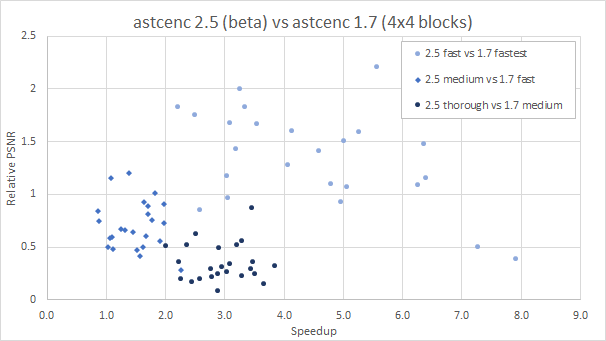
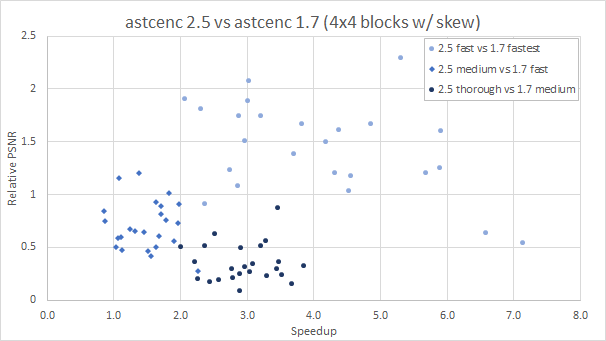
Update comparison block for astcenc 2.5 final build

diff --git a/_posts/2021-03-06-astc-compared-redux.md b/_posts/2021-03-06-astc-compared-redux.md
@@ -9,6 +9,11 @@ bug fixes. Now that the release is stable and in beta, this felt like a good
 time to pull together some benchmark data and look at the progress thus far.
 
 
+**UPDATED:** This blog was refreshed with the final status of the 2.5 release,
+which measurably improved the image quality of the `-fast` and `-fastest` modes
+for a ~15% performance hit.
+
+
 In the beginning ...
 ====================
 
@@ -112,11 +117,15 @@ improvement vs processing cost.
 
 ![asctenc 2.5 vs 1.7 4x4 blocks]({{ "../../../assets/images/astcispc2/02-2.5-vs-1.7-rel-4x4.png" | relative_url }}){:.center-image}
 
-The typical speedup we see on these images is between 9 and 12 x, and an
+The typical speedup we see on these images is between 8.5x and 11.5x, and an
 average image quality loss is just 0.05dB for `-thorough` and 0.1dB for
-`-medium`. The `-fast` and `-fastest` modes deliberately sacrificed a little
-more image quality to gain more performance, so the average PSNR loss there is
-a little higher around 0.175 dB.
+`-medium` and `-fast`. The `-fastest` mode sees considerable improvement in
+quality compared to 1.7 because we'd made it so much faster in the 2.5 beta
+that I actually decided to "spend" a bit of that performance to get above an
+obvious knee in the cost-quality curve. A little more compression effort gave
+up to 2 dB improvements in some images compared to 2.5 beta, which seemed well
+worth a small increase in compression cost (and despite that 2.5 is still a lot
+faster than 2.4).
 
 The speed ups here are so significant that many of the quality thresholds are
 now faster than the next lower quality preset in the 1.x series. This gives the
@@ -147,13 +156,11 @@ For the most heavily used modes we see speedups of up to 15x, but we also see
 larger PSNR losses. The losses for `-thorough`, `-medium`, all approximately
 double to an average of 0.1dB and 0.2dB respectively.
 
-![asctenc 2.5 vs 1.7 4x4 blocks]({{ "../../../assets/images/astcispc2/07-2.5-vs-1.7-rel-6x6.png" | relative_url }}){:.center-image}
+![asctenc 2.5 vs 1.7 6x6 blocks]({{ "../../../assets/images/astcispc2/07-2.5-vs-1.7-rel-6x6.png" | relative_url }}){:.center-image}
 
-Here you can also see the impact of a policy to make `-fastest` as fast as
-possible. This mode is deliberately designed to give the fastest possible
-absolute performance, suitable for rapid prototyping and content roughing out,
-and was not trying to preserve image quality compared to the 1.7 series. We
-therefore see some significant quality drop off here.
+Here you can also see the impact of the rebalancing of the `-fastest` mode,
+seeing the a significant increase in quality compared to 1.7 despite the faster
+performance.
 
 
 astcenc 2.5 vs ISPC TexComp
@@ -168,19 +175,20 @@ Well, pretty close.
 ----------
 
 For 4x4 blocks our `-fast` splits the two ITC profiles. Our `-fastest` mode
-beats ITC's fastest mode, but given it's low image quality I discount it from
-further consideration here as I wouldn't expect anyone to ship content based
-on it.
+is similar to ITC's fastest mode, but given it's low image quality I discount
+it from further consideration here as I wouldn't expect anyone to ship content
+based on it.
 
 ![asctenc 2.5 vs ITC 4x4 blocks]({{ "../../../assets/images/astcispc2/10-2.5-vs-itc-4x4.png" | relative_url }}){:.center-image}
 
-Our `-fast` mode is better than ITC's slow mode, averaging ~0.2dB better PSNR
-and ~3.5x faster relative performance. It also has a much better lower bound on
+Our `-fast` mode is better than ITC's slow mode, averaging ~0.5dB better PSNR
+and ~3x faster relative performance. It also has a much better lower bound on
 quality, with the worst images beating ITC slow by ~0.8 dB and ITC fast by 1.3
 dB, which are significant improvements.
 
 However, it's not a universal win everywhere on quality, some images are worse
-by up to 0.8 dB, even though the average is a net gain.
+by up to 0.6 dB, even though the average is still a significant "win" for
+astcenc.
 
 ![asctenc 2.5 vs ITC 4x4 blocks]({{ "../../../assets/images/astcispc2/11-2.5-vs-itc-rel-4x4.png" | relative_url }}){:.center-image}
 
@@ -205,8 +213,8 @@ comes off worse on quality.
 
 ![asctenc 2.5 vs ITC 6x6 blocks]({{ "../../../assets/images/astcispc2/13-2.5-vs-itc-6x6.png" | relative_url }}){:.center-image}
 
-Nearly all of the images using `-fast` are worse image quality than ITC's slow
-profile, with an average loss of 0.45 dB, and a peak loss of 1.1 dB. These are
+Many of the images using `-fast` are worse image quality than ITC's slow
+profile, with an average loss of 0.3 dB, and a peak loss of 0..9 dB. These are
 quite large deficits, so for this one ITC would remain the better choice,
 despite the speed advantage of astcenc. (It's worth noting that you could try
 to use the new tunable quality parameter for astcenc to try and dial the
